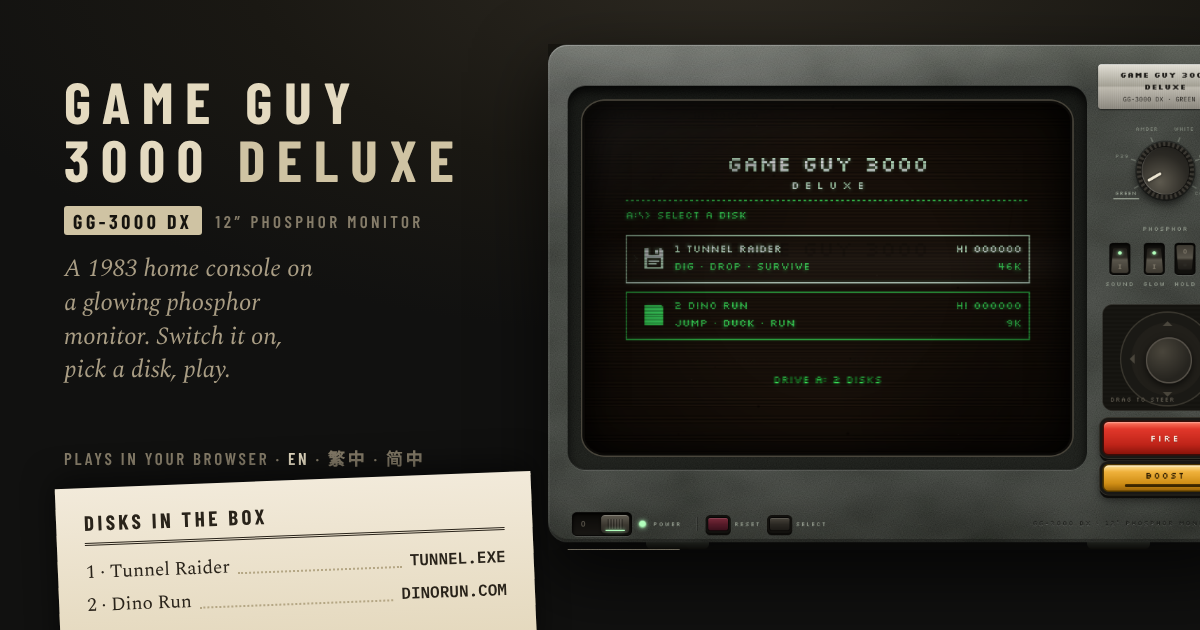
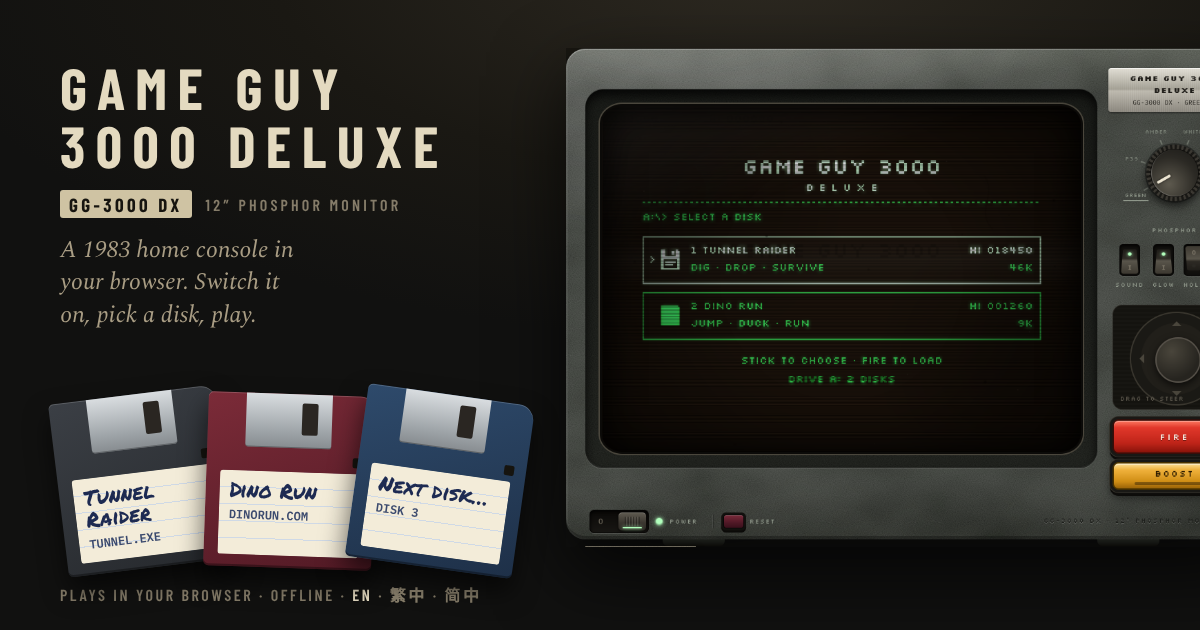
feat: new share images, per-game share images and README screenshots
- Share image: the console's disk menu beside a fan of hand-labelled
  floppies (Tunnel Raider, Dino Run and a blank next disk). Each game's
  page gets its own, with its gameplay on the screen and its disk in
  front.
- New share description: a 1983-style console that plays Tunnel Raider,
  Dino Run and more, with drive sounds, high scores and offline play.
- tools/share-images/make.cjs captures the real console and renders the
  share images and the README screenshots; a unit test checks every game
  page has one. Share images stay out of the offline cache (0.7 MB
  instead of 1.3 MB to cache).
- README: screenshot gallery and how to regenerate the images.
- fix: a click or tap on the set's buttons no longer leaves keyboard
  focus on them, so Space (jump, fire) can't switch the set off.

Claude-Session: https://claude.ai/code/session_01KVgNwscUD74ty6NcmSq3KY

diff --git a/tools/share-images/share.css b/tools/share-images/share.css
@@ -1,0 +1,25 @@
+html,body{margin:0;width:1200px;height:630px;overflow:hidden}
+body{position:relative;background:radial-gradient(90% 75% at 64% -6%,#2e2a22 0,#1a1813 46%,#111110 80%) #111110;color:#ddd3ba;font-family:Spectral,Georgia,serif}
+.tv{position:absolute;right:-56px;top:48px;width:690px;filter:drop-shadow(0 28px 36px rgba(0,0,0,.7))}
+.copy{position:absolute;left:60px;top:58px;width:470px;display:flex;flex-direction:column;gap:16px}
+h1{margin:0;font-family:"Barlow Condensed",sans-serif;font-weight:700;font-size:58px;line-height:1;letter-spacing:.18em;text-transform:uppercase;color:#e4dac0}
+h1 small{display:block;font-size:22px;letter-spacing:.2em;color:#a99d84;margin-top:10px}
+.label{display:flex;align-items:center;gap:14px}
+.model{font-family:"Barlow Condensed",sans-serif;font-weight:700;font-size:19px;letter-spacing:.18em;color:#16140f;background:#cfc3a3;padding:3px 9px 2px;border-radius:3px}
+.mon{font-family:"Barlow Condensed",sans-serif;font-weight:600;font-size:16px;letter-spacing:.2em;color:#857c69;text-transform:uppercase}
+.tag{margin:0;font-style:italic;font-size:24px;line-height:1.35;color:#a99d84;max-width:20ch}
+.foot{position:absolute;left:60px;bottom:24px;font-family:"Barlow Condensed","Noto Sans TC",sans-serif;font-weight:600;font-size:16px;letter-spacing:.16em;text-transform:uppercase;color:#857c69}
+.foot span{color:#e6dcc3}
+/* 3.5-inch floppies, fanned out */
+.disks{position:absolute;left:58px;bottom:62px;height:190px;width:520px}
+.disk{position:absolute;bottom:0;width:168px;height:174px;border-radius:5px 16px 5px 5px;box-shadow:0 14px 26px rgba(0,0,0,.6),inset 0 1px 0 rgba(255,255,255,.18),inset 0 -2px 0 rgba(0,0,0,.35)}
+.disk .shutter{position:absolute;left:38px;top:0;width:86px;height:54px;border-radius:0 0 3px 3px;background:linear-gradient(180deg,#d9dde0,#9ea4a8 70%,#878c90);box-shadow:inset 0 -1px 0 rgba(0,0,0,.3)}
+.disk .shutter::after{content:"";position:absolute;left:56px;top:9px;width:16px;height:32px;border-radius:2px;background:#2a2622}
+.disk .lab{position:absolute;left:14px;right:14px;bottom:12px;height:84px;border-radius:3px;background:repeating-linear-gradient(180deg,#f3ecd9 0 16px,#cfd9e6 16px 17px) #f3ecd9;color:#1d2a52;padding:8px 10px 0;box-sizing:border-box}
+.disk .lab b{display:block;font-family:"Permanent Marker",cursive;font-weight:400;font-size:21px;line-height:1.05}
+.disk .lab i{display:block;font-family:"IBM Plex Mono",monospace;font-style:normal;font-weight:600;font-size:12px;margin-top:6px;color:#3b4a6e}
+.disk .hole{position:absolute;right:12px;top:62px;width:10px;height:10px;border-radius:2px;background:#16140f}
+.c1{background:linear-gradient(160deg,#3b3f45,#26292d)}
+.c2{background:linear-gradient(160deg,#7b2b38,#521a25)}
+.c3{background:linear-gradient(160deg,#2e4a6b,#1e3048)}
+.c4{background:linear-gradient(160deg,#59616b,#3d434a)}

diff --git a/tests/unit/disks.test.ts b/tests/unit/disks.test.ts
@@ -1,5 +1,5 @@
 import { describe, it, expect } from 'vitest';
-import { readFileSync, readdirSync, statSync } from 'node:fs';
+import { readFileSync, readdirSync, statSync, existsSync } from 'node:fs';
 import { join, dirname } from 'node:path';
 import { fileURLToPath } from 'node:url';
 import { DISKS, loadGameCode } from '../../src/games/registry';
@@ -33,6 +33,9 @@ describe('game disks', () => {
   it.each(DISKS.map(d => [d.id, d] as const))('%s has a name and instructions in all three languages', (_id, d) => {
     expect(d.manual.length).toBeGreaterThan(0);
     for (const l of ['en', 'zh-hant', 'zh-hans'] as const) expect(d.strings?.[l]?.[d.nameKey]).toBeTruthy();
+  });
+  it.each(DISKS.map(d => [d.id, d] as const))('%s has a share image for its page', (_id, d) => {
+    expect(existsSync(join(GAMES_DIR, '../../public', `og-${d.slug}.png`))).toBe(true);
   });
   it.each(DISKS.map(d => [d.id, d] as const))('%s has game code that makes a runtime', async (_id, d) => {
     const create = await loadGameCode(d.id);

diff --git a/src/console/core.ts b/src/console/core.ts
@@ -477,6 +477,12 @@ export function flipPower(){ ensureAudio(); if (ac) { tone(700, 0.03, 0.06, -200
   $('powerBtn').addEventListener('click', () => { if (flicked) { flicked = false; return; } flipPower(); });
 }
 /* reset: reboots on the press itself, straight back into the BIOS and floppy load (does nothing with the set switched off) */
+/* after a mouse click or tap on the set's buttons, let go of keyboard focus: otherwise Space (jump, fire) or Enter
+   would press that button again, e.g. switch the set off. A keyboard press (detail 0) keeps focus for keyboard users. */
+document.addEventListener('click', e => {
+  const b = (e.target as Element).closest?.('button');
+  if (b && e.detail > 0 && b.closest('.tv')) setTimeout(() => b.blur(), 0);
+});
 $('resetBtn').addEventListener('pointerdown', e => {
   e.preventDefault(); ensureAudio(); if (ac) tone(1300, 0.015, 0.06);
   const b = $('resetBtn'); b.classList.add('on'); setTimeout(() => b.classList.remove('on'), 140);

diff --git a/src/games/dino-run/game.ts b/src/games/dino-run/game.ts
@@ -109,6 +109,6 @@ function draw(){
 
 const create: CreateGame = a => {
   api = a; useApi(a);
-  return { start, update, draw };
+  return { start, update, draw, debug: { state: () => D } };
 };
 export default create;

diff --git a/README.md b/README.md
@@ -4,6 +4,12 @@
 
 A 1983-style home console in the browser, on an old phosphor monitor. Switch it on, watch the BIOS and the floppy drive boot, pick a disk from the menu and play. Each game has its own loading screen, instructions and high-score table, and it all works offline once loaded.
 
+| The disk menu | Loading Tunnel Raider | Tunnel Raider |
+| --- | --- | --- |
+| ![The disk menu](docs/screens/menu.png) | ![Tunnel Raider loading](docs/screens/load-tunnel.png) | ![Tunnel Raider](docs/screens/play-tunnel.png) |
+| **Loading Dino Run** | **Dino Run** | |
+| ![Dino Run loading](docs/screens/load-dino.png) | ![Dino Run](docs/screens/play-dino.png) | |
+
 ## Games
 
 | # | Game | File | Load time | What it is |
@@ -13,7 +19,7 @@ A 1983-style home console in the browser, on an old phosphor monitor. Switch it 
 
 The characters, art, sound and code in both are original.
 
-Each game also has its own page that boots straight into its disk: `/tunnel-raider` and `/dino-run`, each with its own title and share text.
+Each game also has its own page that boots straight into its disk: `/tunnel-raider` and `/dino-run`, each with its own title, description and share image.
 
 ## The console
 
@@ -143,6 +149,21 @@ Rules (the unit tests check them):
 - **Loads within 5 seconds:** `loadSecs` is 5 or less, and different from every other game's.
 - **Three languages:** the name and instructions come in `en`, `zh-hant` and `zh-hans`.
 - **Original work:** characters, art and sound are your own, even for a tribute.
+
+### Share images and screenshots
+
+The share images (`public/og-image.png`, plus `public/og-<slug>.png` for each game's page) and the screenshots above (`docs/screens/`) are made from the real console by one script:
+
+```sh
+npm run build && npm run preview &
+NODE_PATH=$(npm root -g) node tools/share-images/make.cjs
+```
+
+It switches the set on, captures the menu, each game's loading screen and some play (Dino Run on autopilot, caught mid-jump). It then lays each capture out beside the name and a fan of floppy disks (`tools/share-images/share.css`) at 1200 × 630.
+
+- **A new game:** add an entry to `IMAGES` in the script.
+- **The test that checks it:** the unit tests fail if a game's page has no share image.
+- **Kept out of the offline cache:** share images are only for link previews, so players never download them.
 
 ### Offline and updates
 

diff --git a/AGENTS.md b/AGENTS.md
@@ -96,7 +96,8 @@ Requirements 1 to 8 below are built: the console boots into a disk menu with two
 | `src/games/types.ts` | The plug-in contract: `GameDisk`, `GameRuntime`, `ConsoleAPI` |
 | `src/games/registry.ts` | Finds `*/disk.ts` (eager) and `*/game.ts` (lazy) |
 | `src/games/tunnel-raider/`, `src/games/dino-run/` | The two games (`disk.ts`, `game.ts`, plus helpers) |
-| `public/` | Icons, favicon, share image |
+| `public/` | Icons, favicon, share images (`og-image.png`, `og-<slug>.png` per game) |
+| `tools/share-images/` | `make.cjs` captures the console and renders the share images and `docs/screens/`; `share.css` is their layout |
 
 Useful places:
 
@@ -119,6 +120,8 @@ Useful places:
 - **Offline.** The console and every game must play with no connection once cached. Anything in `public/` or built from `src/` is precached; files fetched some other way need a `runtimeCaching` rule in `astro.config.mjs`.
 - **Languages.** The page chrome and instructions come in English, Traditional Chinese and Simplified Chinese (`I18N`, chosen by `#en`, `#zh-hant` or `#zh-hans`). On-tube text stays English in the pixel font.
 - **High scores.** Local only, per device, one table per game (`gg-board-<id>`).
+- **Keyboard focus.** After a pointer click or tap on the set's buttons, the console drops focus (`blur`), so Space and Enter go to the game instead of pressing the button again (it used to switch the set off mid-jump). Keep that for any new button on the set.
+- **Share images.** Every game page needs `public/og-<slug>.png` (a unit test checks). Re-run `tools/share-images/make.cjs` after visible changes to the set, the menu or a game, and add new games to its `IMAGES` list. Share images stay out of the offline precache.
 - **Analytics.** Vercel Web Analytics custom events through `track(name, data)`. The account is on Vercel Pro, which allows **at most two properties per event**, and values must be strings, numbers, booleans or null. When there are several games, put the game id in the event properties and drop a less useful one to stay within two. Keep the README's event table up to date.
 
 ## Working conventions
